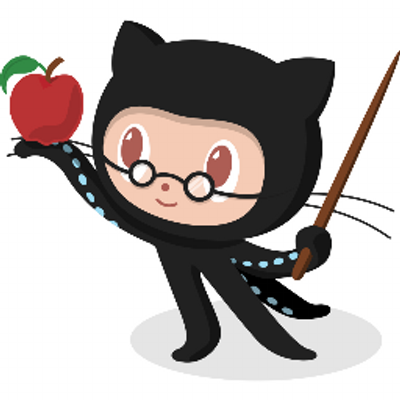
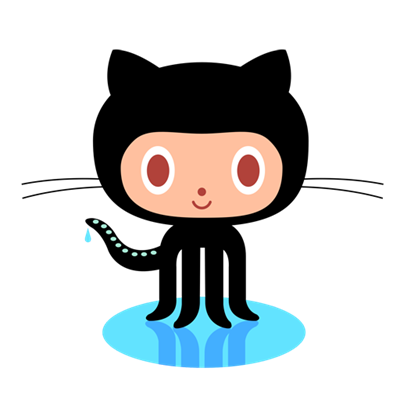
jQuery Study Complete

diff --git a/web_dev/jquery/index.html b/web_dev/jquery/index.html
@@ -8,27 +8,41 @@
 
 </head>
 <body>
-<ol>
+<div id="wrapper">
+<h1>Fun jQuery Practice!</h1>
+<ol id="ordList">
 	<li>First Line!</li>
 	<li>Second Line!</li>
+	<li><em>Third line!</em></li>
 </ol>
 <div>
 <ul>
-	<li><img src="img/1.png"></li>
-	<li><img src="img/2.gif"></li>
-	<li><img src="img/3.png"></li>
-	<li><img src="img/4.jpeg"></li>
+	<li><img id="img1" src="img/1.png"></li>
+	<li><img id="img2" src="img/github-logo.png"></li>
+	<li><img id="img3" src="img/3.png"><img id="img5" src="img/5.png"></li>
+	<li><img id="img4"  src="img/4.jpeg"></li>
 </ul>
+</div>
 </div>
 <script type="text/javascript">
 	$("document").ready(function(){
 
+	$("#wrapper").css("background","green");
+	$("#wrapper").css("width",1200);
+	$("#ordList li:nth-child(2n - 1)").css("color","white");
+	$("#img5").hide();
+	$("#img3").click( function(){
+		$(this).fadeOut(2000);
 
+		$("#img5").fadeIn(4000);
+	});
 
-
-	}); <!-- End of JQuery Code -->
-
-
+	$("#img2").hover(function(){
+		$("#img2").attr("src","img/github-logo2.png");
+			}, function(){
+		$("#img2").attr("src","img/github-logo.png");
+		});
+	});
 
 </script>
 </body>

diff --git a/web_dev/jquery/notes.md b/web_dev/jquery/notes.md
@@ -19,3 +19,9 @@ Youtube
 Stack overflow 
 
 Watching videos at 1.25 speed
+
+
+## AFTER TWO HOURS ##
+
+
+I found a comprhensive YouTube video that was about 1hr and 15 min and I watched it at 1.5 speed picking up the id calls and how to add and animate DOM elements it was super helpful I even downloaded the entire video for future reference I only spent a few minutes creating a html page but with that video in the future I could easily get addition jQuery elements to work with ease.
